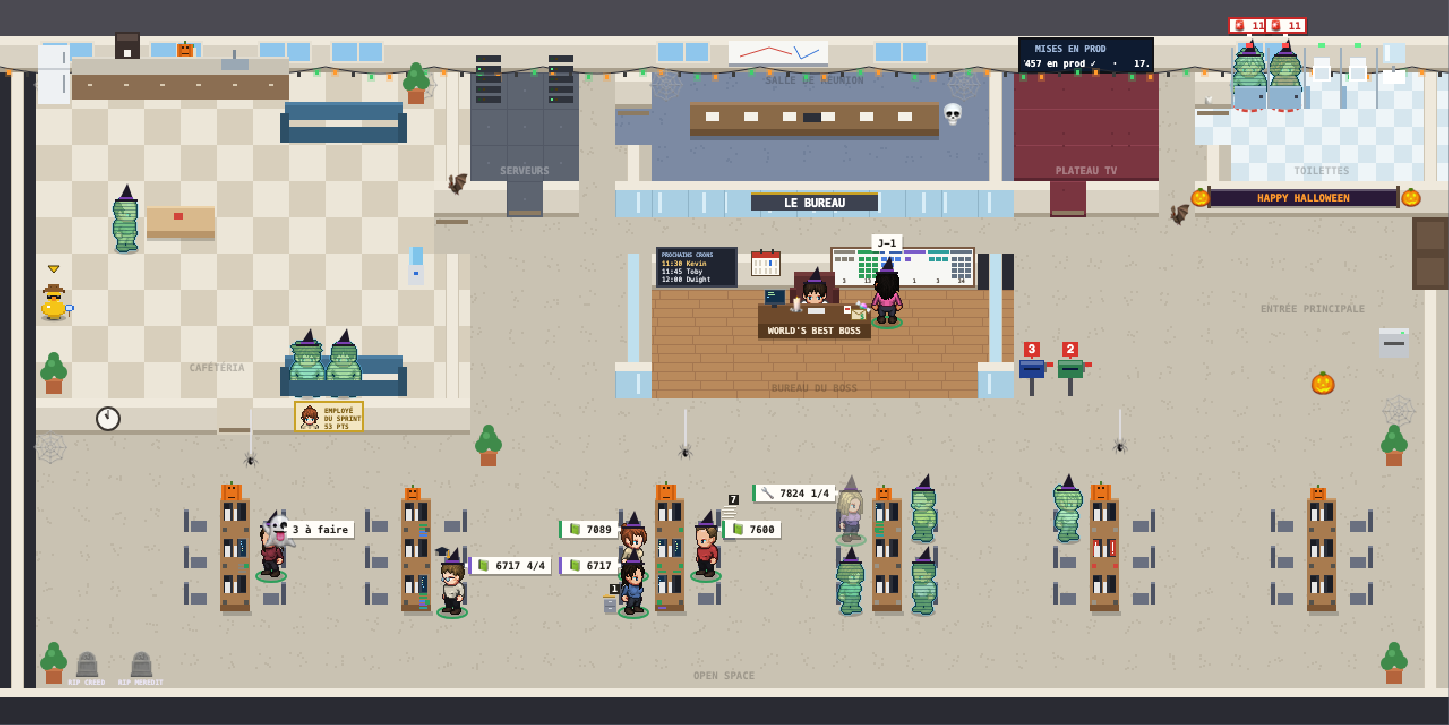
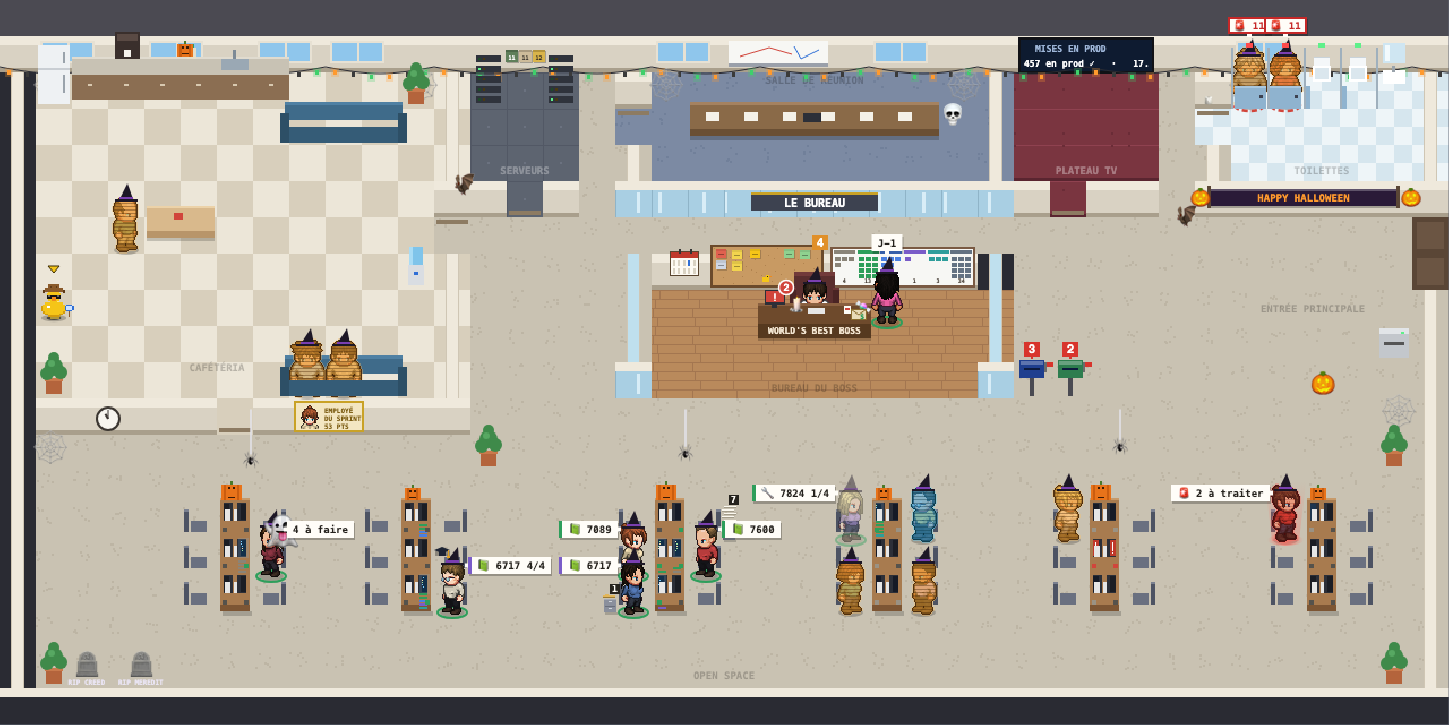
style(themes): à Halloween, les agents gardent leur hologramme
Le vert fantôme d'Halloween se confondait avec les couleurs des familles
d'agents : l'hologramme reste cyan (ou la couleur de sa famille) toute
l'année. Chapeaux, citrouilles et le reste du thème ne changent pas.

diff --git a/page/src/41-people.js b/page/src/41-people.js
@@ -46,8 +46,8 @@ function holoBeam(dx,dy,col){
 }
 function holoFrame(img,sx,sy,now,lines,hs){
   hctx.globalCompositeOperation='source-over';hctx.clearRect(0,0,64,64);hctx.drawImage(img,sx,sy,64,64,0,0,64,64);
-  // teinte cyan ; vert fantôme à Halloween (46-themes.js)
-  hctx.globalCompositeOperation='source-atop';hctx.fillStyle=hs?hs.tint:themeIs('halloween')?'rgba(150,255,170,.6)':'rgba(70,190,255,.55)';hctx.fillRect(0,0,64,64);
+  // teinte cyan, toute l'année (le vert d'Halloween se confondait avec les familles)
+  hctx.globalCompositeOperation='source-atop';hctx.fillStyle=hs?hs.tint:'rgba(70,190,255,.55)';hctx.fillRect(0,0,64,64);
   if(lines){
     hctx.globalCompositeOperation='destination-out';
     hctx.fillStyle=`rgba(0,0,0,${hs?hs.lines:.4})`;

diff --git a/CHANGELOG.md b/CHANGELOG.md
@@ -36,6 +36,7 @@ Format : [Keep a Changelog](https://keepachangelog.com/fr/1.1.0/). Versions : `0
 
 ### Modifié
 
+- Halloween : les agents gardent leur hologramme (cyan, ou la couleur de leur famille) au lieu du vert fantôme, qui se confondait avec les familles.
 - Un agent par bouton des fiches : « ⟳ Remettre à jour » ne prend plus l'agent de « Corriger », et un intérimaire n'incarne plus jamais un bouton (sans agent : l'hologramme du Bureau). « 🚀 Déployer la branche » montre son agent en tête (« Stanley déploie la branche »). Un personnage du pack se rattache aussi à un bouton des fiches (`"model": "rebase"`, `"env"`, `"deploy"`), workflow du Bureau compris, que l'installateur ne propose jamais comme agent : toute l'équipe a le même agent sur le même bouton.
 - Le Mur Kanban devient le lieu des tickets : une barre de personnes en haut (portrait, prénom, nombre de tickets) filtre ses colonnes ; un ticket ouvre sa fiche dans un volet à droite des colonnes (cartes compactes, « Déployé » repliée), un lien du volet y ouvre sa PR et « ← » revient. Tous les liens vers un ticket ou une PR, où qu'ils soient, ouvrent le Kanban filtré sur la personne qui a le ticket ou sur l'auteur de la PR, la fiche dans le volet ; une PR sans ticket dans le sprint y est signalée. Dans la fiche d'un collègue, « Ses tickets » devient un résumé et « ▦ Ses tickets dans le Kanban » ; la fiche ticket et la fiche PR du panneau disparaissent.
 - Panneau ou fenêtre, une règle : le panneau de droite pour consulter, une fenêtre pour gérer ou quand il faut de la place. Le Mur Kanban (six colonnes côte à côte, une carte par ticket, 7 par colonne puis « + N autres ») et le calendrier de l'équipe (les deux semaines côte à côte) passent en fenêtre large ; la console Support passe dans le panneau, comme la boîte aux lettres. « ← » ramène à la vue d'avant (« ← Fiche de paie », « ← Mur Kanban » rouvre la fenêtre), Échap aussi ; chaque fenêtre dit « Échap pour fermer ». Les cartes Kronn lancées du panneau prennent le gabarit des fenêtres : ce qu'on lance (portrait de l'agent ou icône), « ↩ Annuler », les étapes, puis la carte. L'infobulle d'un objet qui ouvre une fenêtre le dit (« ↗ s'ouvre en fenêtre »).

diff --git a/guide/fonctionnalites/12-themes.md b/guide/fonctionnalites/12-themes.md
@@ -7,7 +7,7 @@ Le bureau se déguise selon la date : décor, chapeaux, emojis, effets. Le thèm
 | 🎄 Noël | 1er au 30 déc. | Bonnets, guirlande lumineuse, sapin et cadeaux, bonhomme de neige, renne, chaussettes sur le comptoir, chocolat chaud, flocons, traîneau du Père Noël dans le ciel, cadeaux à la place des enveloppes, banderole « JOYEUX NOËL · J-12 » |
 | 🎆 Nouvel an | 31 déc. au 2 janv. | Chapeaux pointus, confettis qui tombent, ballons, boule à facettes et ses lumières en cafétéria, gâteau, feux d'artifice le soir ; le 31 après midi, compte à rebours « MINUIT DANS 3 H 12 », puis « BONNE ANNÉE » |
 | 💘 Saint-Valentin | 13 et 14 févr. | Cœurs qui s'envolent des gens, Cupidon qui traverse le plan, ballons cœurs, roses sur les îlots, bouquet, chocolats, lettres d'amour à la place des enveloppes |
-| 🎃 Halloween | 24 au 31 oct. | Agents en fantômes verts, chapeaux de sorcière, citrouilles allumées le soir, toiles d'araignée, araignées qui pendent, fantôme qui flotte, chauves-souris, crâne en salle de réunion, tombe « RIP » pour chaque agent en panne, lune, brume et éclairs la nuit, bonbons à la place des enveloppes |
+| 🎃 Halloween | 24 au 31 oct. | Chapeaux de sorcière, citrouilles allumées le soir, toiles d'araignée, araignées qui pendent, fantôme qui flotte, chauves-souris, crâne en salle de réunion, tombe « RIP » pour chaque agent en panne, lune, brume et éclairs la nuit, bonbons à la place des enveloppes |
 
 | Noël | Noël, le soir |
 | --- | --- |
